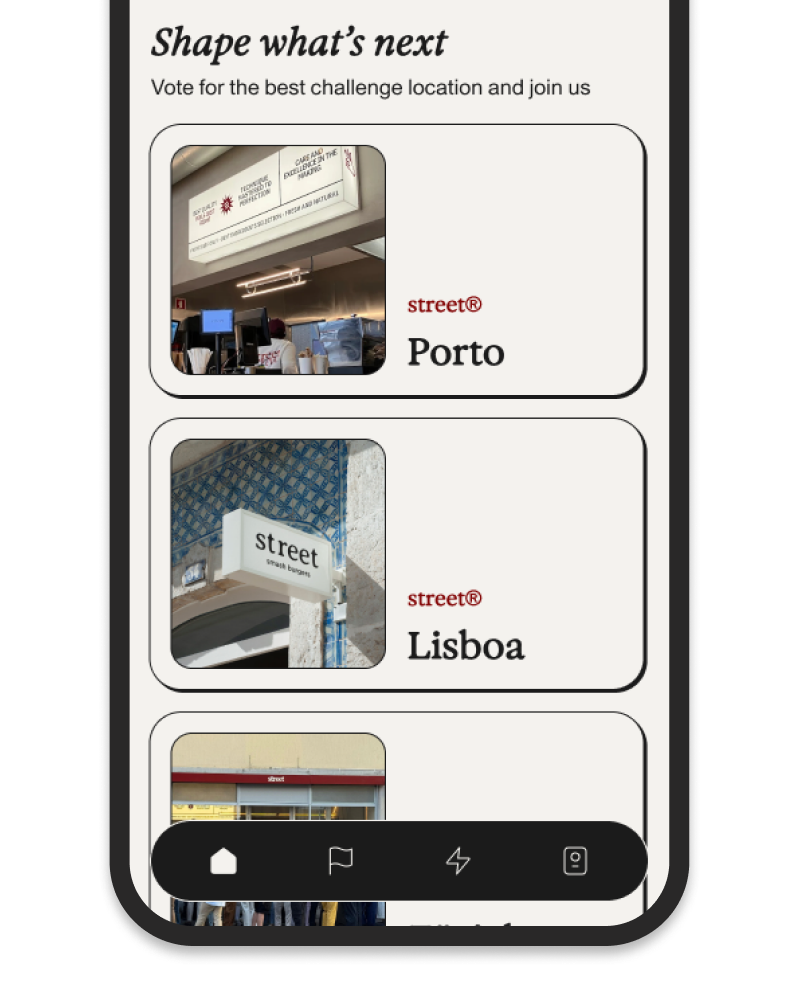
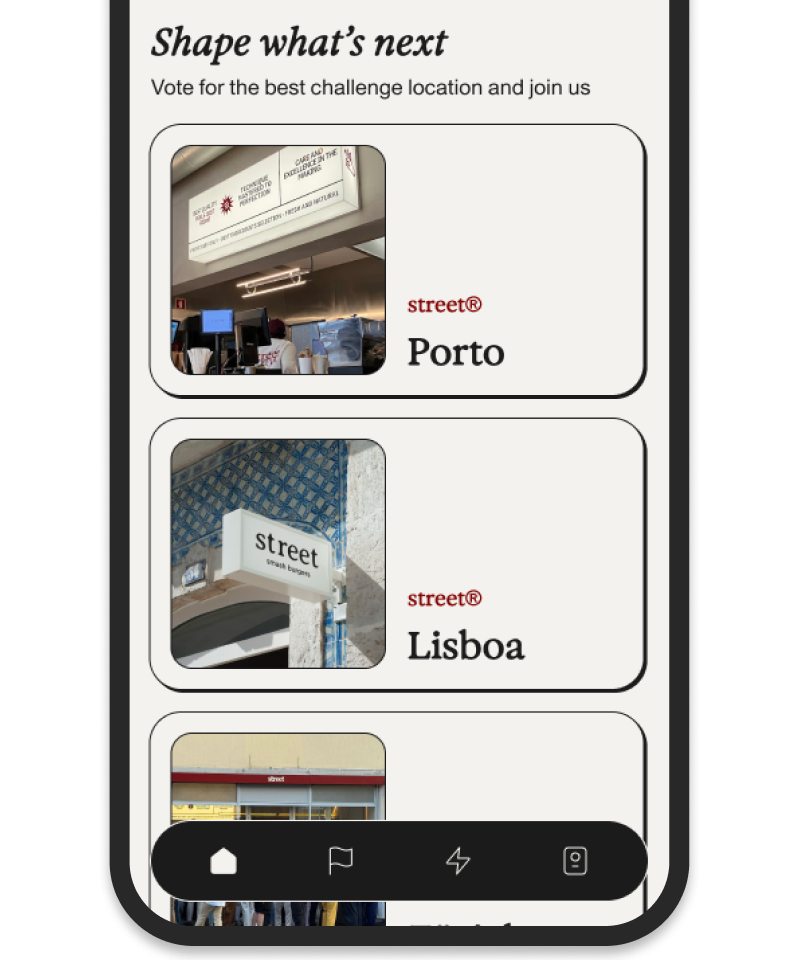
Fix ssb section alignments, margins and paddings

Changed region(s): [[0.1232, 0.0312, 0.8621, 1.0], [0.7697, 0.125, 0.8005, 0.1562]]

diff --git a/src/routes/project.ssb.tsx b/src/routes/project.ssb.tsx
@@ -43,10 +43,10 @@ function InfoBox({
   secondary: ReactNode;
 }) {
   return (
-    <div className="rounded-2xl border border-[#A3A19F]/70 p-8 md:p-12">
+    <div className="rounded-lg border border-[#A3A19F]/70 p-3 md:p-4">
       <p className="text-[11px] font-medium uppercase tracking-[0.18em] text-[#A3A19F]">{label}</p>
 
-      <div className="mt-16 grid grid-cols-1 gap-8 md:grid-cols-2">
+      <div className="mt-20 grid grid-cols-1 gap-8 md:grid-cols-2">
         <div className="flex items-end">
           <p className="text-[18px] leading-[1.55] text-[#292828] md:text-[20px]">{primary}</p>
         </div>
@@ -208,7 +208,7 @@ function ssbPage() {
         </figure>
 
         {/* Brief */}
-        <section className="mt-20 max-w-5xl px-8">
+        <section className="mx-auto mt-20 max-w-5xl px-8">
           <InfoBox
             label="Brief"
             primary="This project was based on a brief from Street Smash Burgers to design a loyalty program that could scale internationally while reflecting the brand’s values of community and cultural impact."
@@ -217,12 +217,12 @@ function ssbPage() {
         </section>
 
         {/* Process */}
-        <section className="mt-20 max-w-5xl px-8">
+        <section className="mx-auto mt-20 max-w-5xl px-8">
           <SectionLabel>Process</SectionLabel>
-          <div className="relative rounded-2xl border border-[#A3A19F]/70">
+          <div className="relative rounded-lg border border-[#A3A19F]/70">
             <div className="grid grid-cols-1 divide-y divide-[#A3A19F]/60 md:grid-cols-4 md:divide-x md:divide-y-0">
               {processColumns.map((col) => (
-                <div key={col.title} className="p-6 md:p-8">
+                <div key={col.title} className="p-3 md:p-4">
                   <p className="text-[11px] font-medium uppercase tracking-[0.18em] text-[#A3A19F]">
                     {col.title}
                   </p>
@@ -260,7 +260,7 @@ function ssbPage() {
         </section>
 
         {/* Research */}
-        <section className="mt-24 max-w-5xl px-8">
+        <section className="mx-auto mt-24 max-w-5xl px-8">
           <InfoBox
             label="Research"
             primary="The first week focused on research: 37 long-form interview responses, 138 short questionnaires, and 10 on-site interviews, supported by desk research."
@@ -269,12 +269,33 @@ function ssbPage() {
         </section>
 
         {/* Research data */}
-        <section className="mt-24 max-w-5xl px-8">
-          <InfoBox
-            label="How much effort will they go through for a reward?"
-            primary="The first week focused on research: 37 long-form interview responses, 138 short questionnaires, and 10 on-site interviews, supported by desk research."
-            secondary="From this, we identified key insights which shaped design decisions."
-          />
+        <section className="mx-auto mt-24 max-w-5xl px-8">
+          <div className="rounded-lg bg-[#F1F0ED] p-3 md:p-4">
+            <div className="grid grid-cols-1 gap-10 md:grid-cols-2">
+              <div className="flex flex-col">
+                <p className="min-h-[3rem] text-[13px] leading-[1.5] text-[#8A8A88]">
+                  How much effort will they go through
+                  <br />
+                  for a reward?
+                </p>
+                <p className="mt-20 text-[15px] leading-[1.5] text-[#292828]">
+                  41% said very little, the rest said{" "}
+                  <span className="underline underline-offset-4">
+                    if it&apos;s worth it, they&apos;ll put effort in.
+                  </span>
+                </p>
+              </div>
+              <div className="flex flex-col">
+                <p className="min-h-[3rem] text-[13px] leading-[1.5] text-[#8A8A88]">
+                  Why do people comeback?
+                </p>
+                <p className="mt-20 text-[15px] leading-[1.5] text-[#292828]">
+                  Free items but also{" "}
+                  <span className="underline underline-offset-4">experiences</span>.
+                </p>
+              </div>
+            </div>
+          </div>
         </section>
 
         {/* post-its*/}
@@ -286,7 +307,7 @@ function ssbPage() {
         </section>
 
         {/* Features */}
-        <section className="mt-24 max-w-5xl px-8">
+        <section className="mx-auto mt-24 max-w-5xl px-8">
           <div className="grid grid-cols-1 items-center gap-12 md:grid-cols-2">
             <div className="flex justify-center">
               <img src={mockssb1} alt="SSB home screen" className="w-full max-w-[320px]" />
@@ -331,14 +352,14 @@ function ssbPage() {
         </section>
 
         {/* Feature card — Experience-driven */}
-        <section className="mt-24 max-w-5xl px-8">
-          <div className="rounded-2xl border border-[#A3A19F]/70 p-8 md:p-12">
-            <div className="grid grid-cols-1 items-center gap-10 md:grid-cols-2">
-              <div>
+        <section className="mx-auto mt-24 max-w-5xl px-8">
+          <div className="rounded-lg border border-[#A3A19F]/70 p-8 md:p-12">
+            <div className="grid grid-cols-1 gap-10 md:grid-cols-2">
+              <div className="flex h-full flex-col justify-between">
                 <h2 className="text-[24px] font-normal leading-[1.25] text-black md:text-[28px]">
                   Experience-driven
                 </h2>
-                <ul className="mt-10 space-y-5">
+                <ul className="mt-16 space-y-5">
                   {experience.map((f) => (
                     <li key={f} className="flex items-start gap-3">
                       <svg
@@ -375,7 +396,7 @@ function ssbPage() {
         </section>
 
         {/* Brief */}
-        <section className="mt-20 max-w-5xl px-8">
+        <section className="mx-auto mt-20 max-w-5xl px-8">
           <InfoBox
             label="Takeaways"
             primary="On this project I contributed across most stages. My role focused especially on both the app’s UI Design and on identifying weaknesses, helping the team refine and strengthen the concept, design and final presentation. "

diff --git a/src/routes/project.mindfull.tsx b/src/routes/project.mindfull.tsx
@@ -226,7 +226,7 @@ function MindfullPage() {
         </figure>
 
         {/* Brief */}
-        <section className="mt-20 max-w-5xl px-8">
+        <section className="mx-auto mt-20 max-w-5xl px-8">
           <InfoBox
             label="Brief"
             primary="Mindfull is a digital solution that helps users take care of their well-being and develop healthy mental and mindful habits."
@@ -235,7 +235,7 @@ function MindfullPage() {
         </section>
 
         {/* Process */}
-        <section className="mt-20 max-w-5xl px-8">
+        <section className="mx-auto mt-20 max-w-5xl px-8">
           <SectionLabel>Process</SectionLabel>
           <div className="relative rounded-2xl border border-[#A3A19F]/70">
             <div className="grid grid-cols-1 divide-y divide-[#A3A19F]/60 md:grid-cols-4 md:divide-x md:divide-y-0">
@@ -280,7 +280,7 @@ function MindfullPage() {
         </section>
 
         {/* Research */}
-        <section className="mt-24 max-w-5xl px-8">
+        <section className="mx-auto mt-24 max-w-5xl px-8">
           <InfoBox
             label="Research"
             primary="We conducted 6 interviews with people aged 22-34, the target audience, to better understand their routines, habits, and approaches to self-care and mindfulness, as well as how digital tools fit into their lives."
@@ -289,7 +289,7 @@ function MindfullPage() {
         </section>
 
         {/* Pain Points and Opportunities */}
-        <section className="mt-24 max-w-5xl px-8">
+        <section className="mx-auto mt-24 max-w-5xl px-8">
           <SectionLabel>Pain Points and Opportunities</SectionLabel>
           <div className="grid grid-cols-1 gap-4 md:grid-cols-2 md:gap-6">
             <div className="grid grid-rows-4 gap-4">
@@ -342,7 +342,7 @@ function MindfullPage() {
         </section>
 
         {/* Features */}
-        <section className="mt-24 max-w-5xl px-8">
+        <section className="mx-auto mt-24 max-w-5xl px-8">
           <div className="grid grid-cols-1 items-center gap-12 md:grid-cols-2">
             <div className="flex justify-center">
               <img
@@ -385,7 +385,7 @@ function MindfullPage() {
         </section>
 
         {/* Feature card — Connecting users with professionals */}
-        <section className="mt-24 max-w-5xl px-8">
+        <section className="mx-auto mt-24 max-w-5xl px-8">
           <div className="overflow-hidden rounded-2xl border border-[#A3A19F]/70 px-8 pb-8 md:px-12 md:pb-12">
             <div className="grid grid-cols-1 items-start gap-10 md:grid-cols-2">
               <div className="pt-8 md:pt-12">
@@ -476,7 +476,7 @@ function MindfullPage() {
         </section>
 
         {/* Takeaways */}
-        <section className="mt-20 max-w-5xl px-8">
+        <section className="mx-auto mt-20 max-w-5xl px-8">
           <InfoBox
             label="Takeaways"
             primary="Research guided every decicion, ensuring our solution was evidence-based. We designed the app and website with a focus on an intuitive user experience, applying principles of acessibility, consistency, and clear visual hierarchy."
